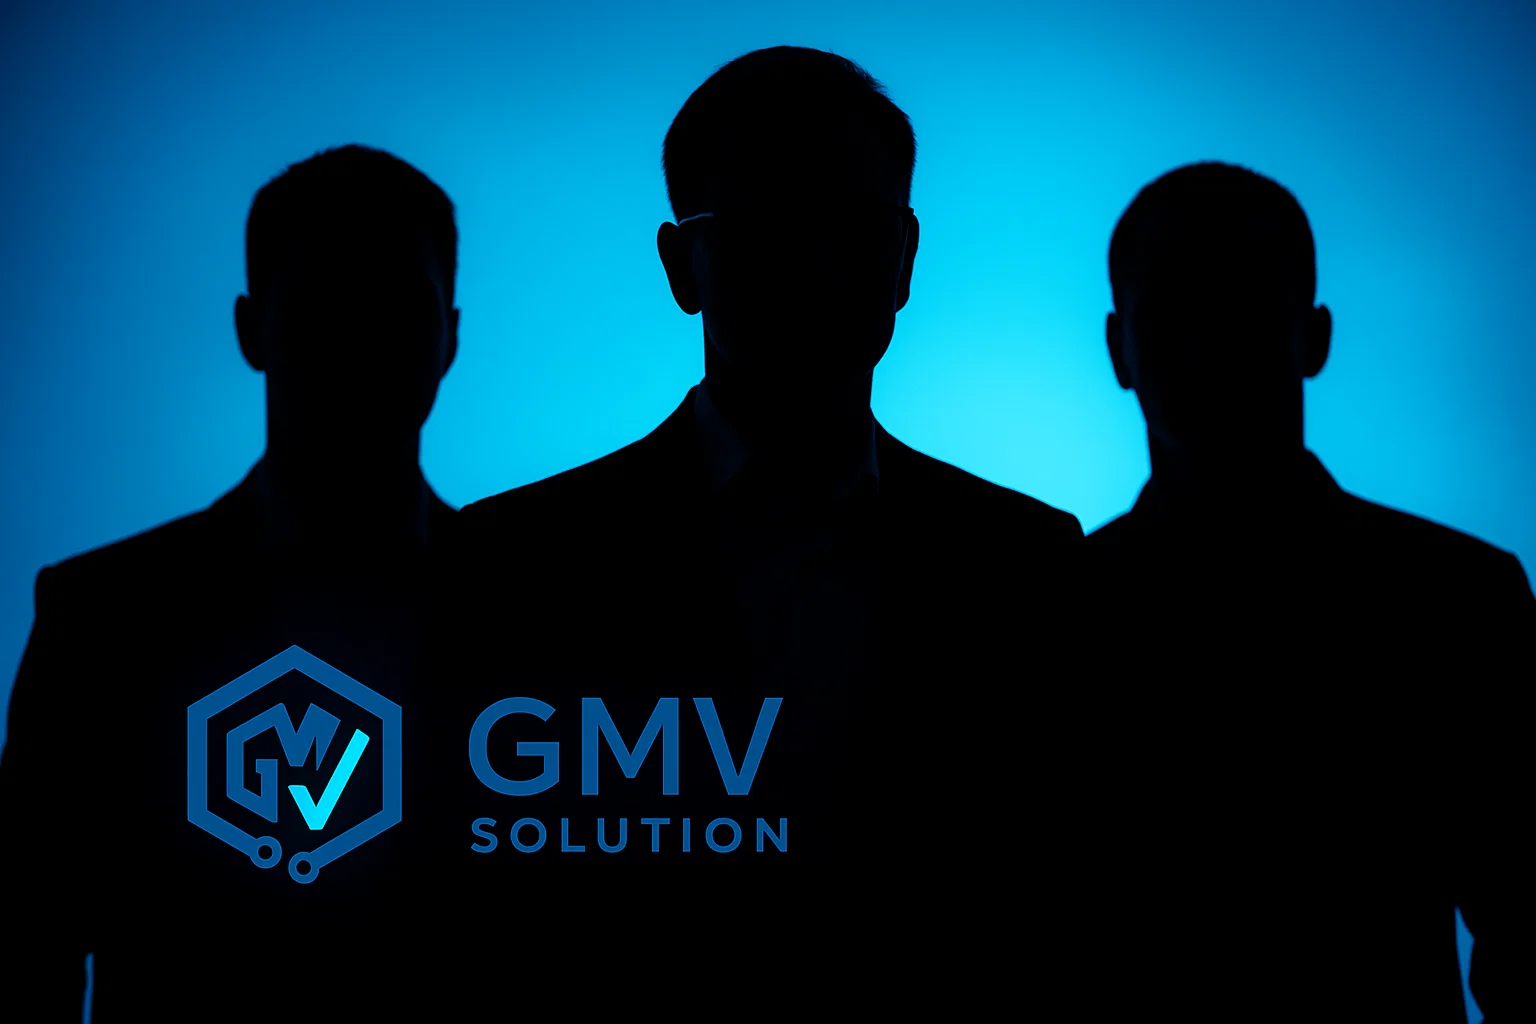
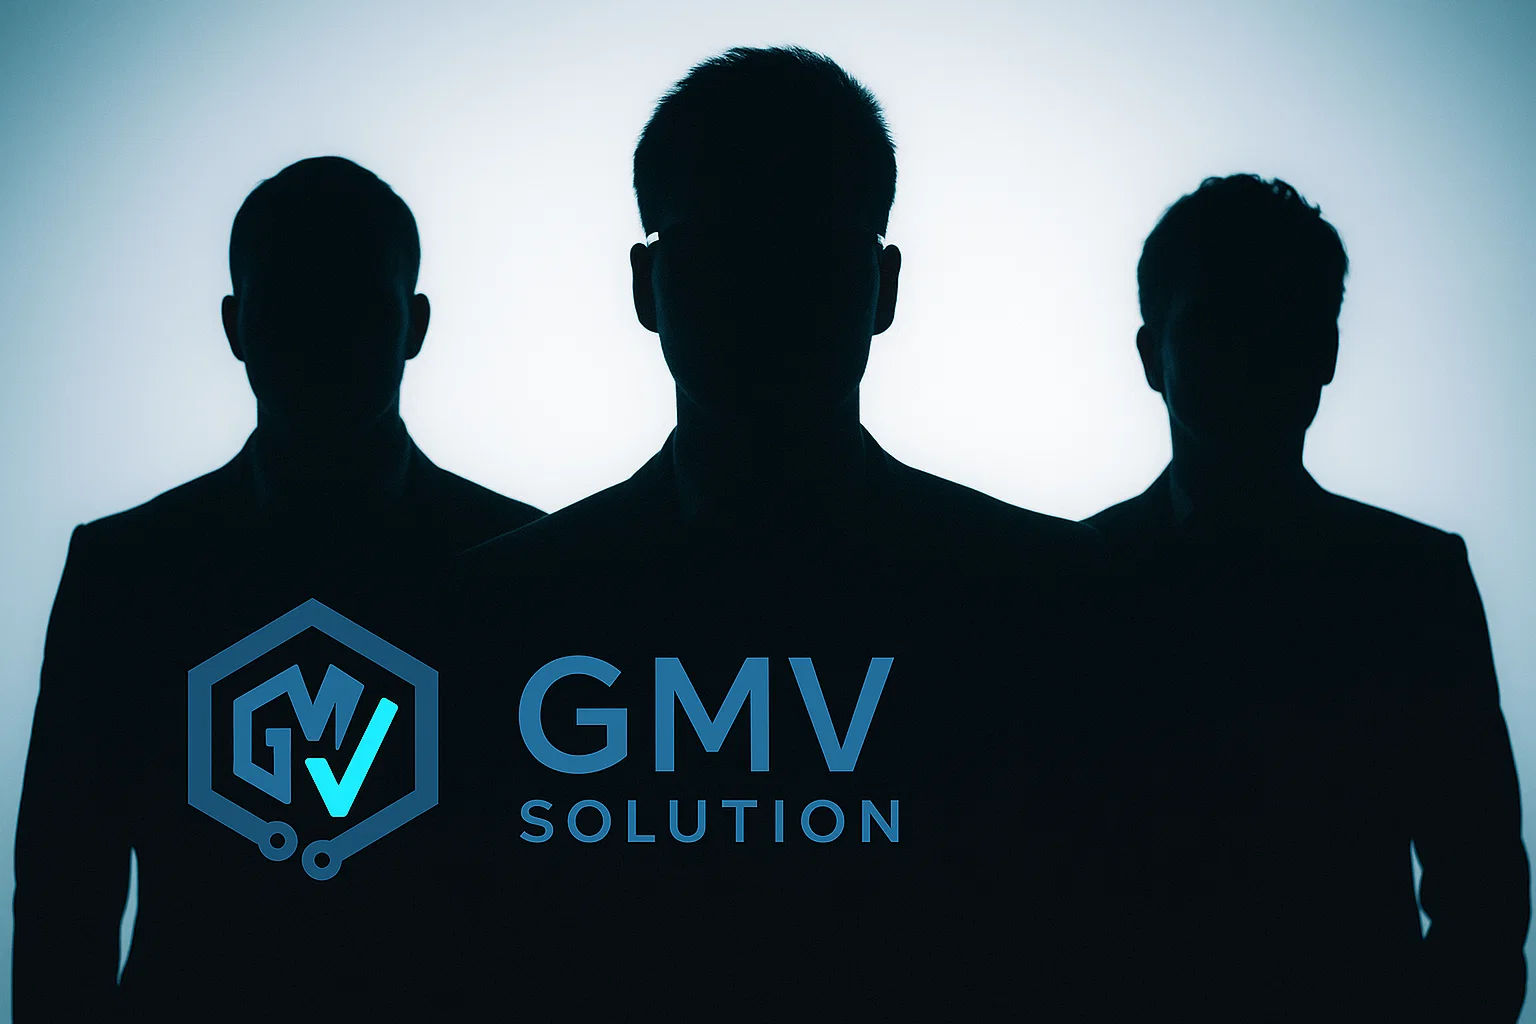
tout changez

diff --git a/src/components/About.tsx b/src/components/About.tsx
@@ -4,6 +4,7 @@ import { useLanguage } from '@/contexts/LanguageContext';
 import { Card } from './ui/card';
 import gmvLogoFull from '@/assets/gmv-logo-full.png';
 import aboutUs from '../images/aboutus.jpg';
+import alvo from '../images/alvo.jpg';
 
 const About = () => {
   const { t } = useLanguage();
@@ -64,7 +65,7 @@ const About = () => {
                 <img 
                   src={aboutUs} 
                   alt="GMV Solution" 
-                  className="h-60 object-contain opacity-100"
+                  className="h-90 object-contain opacity-100"
                 />
               </div>
               <p className="text-muted-foreground leading-relaxed">
@@ -101,9 +102,9 @@ const About = () => {
             {/* Logo on the right */}
             <div className="flex items-center justify-center order-2 md:order-1">
               <img 
-                src={gmvLogoFull} 
+                src={alvo} 
                 alt="GMV Solution" 
-                className="h-32 object-contain opacity-80"
+                className="w-full max-w-md object-contain"
               />
             </div>
 
